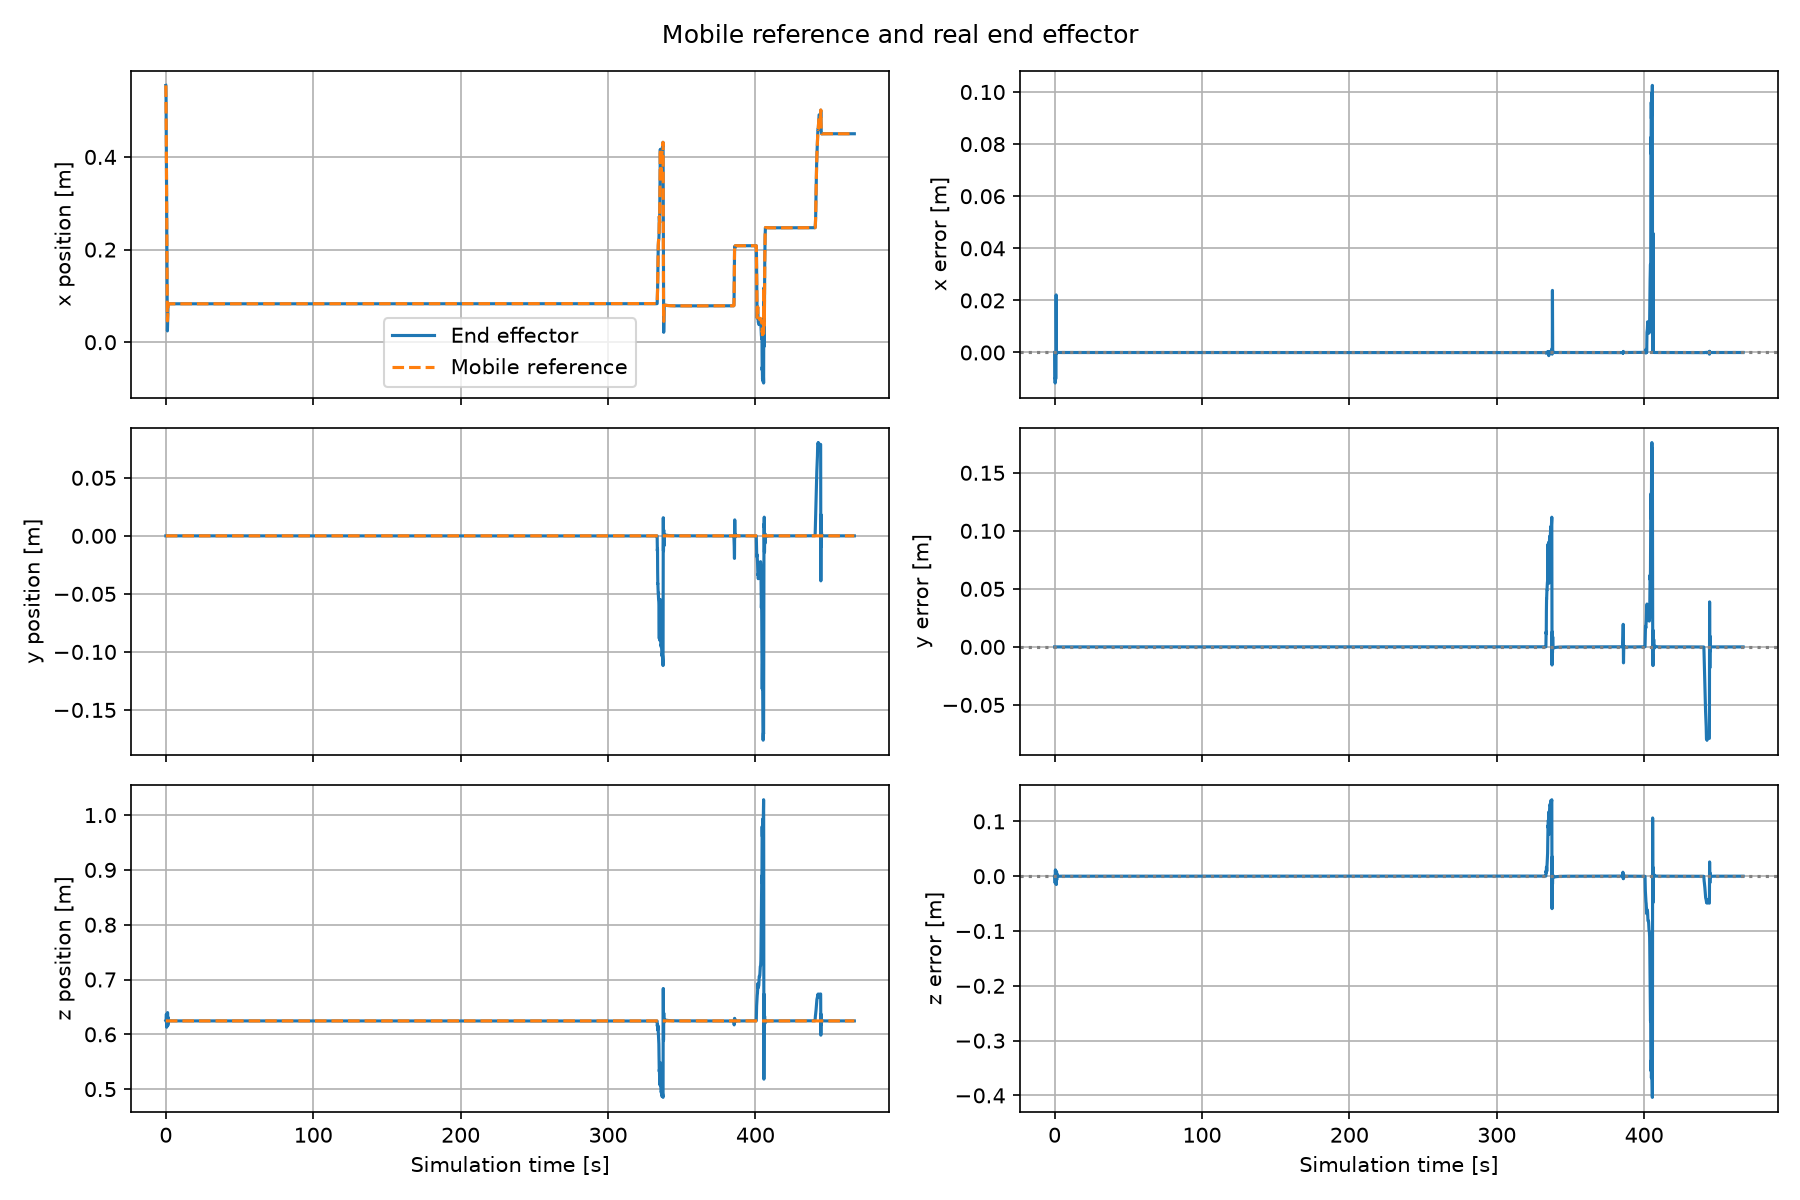
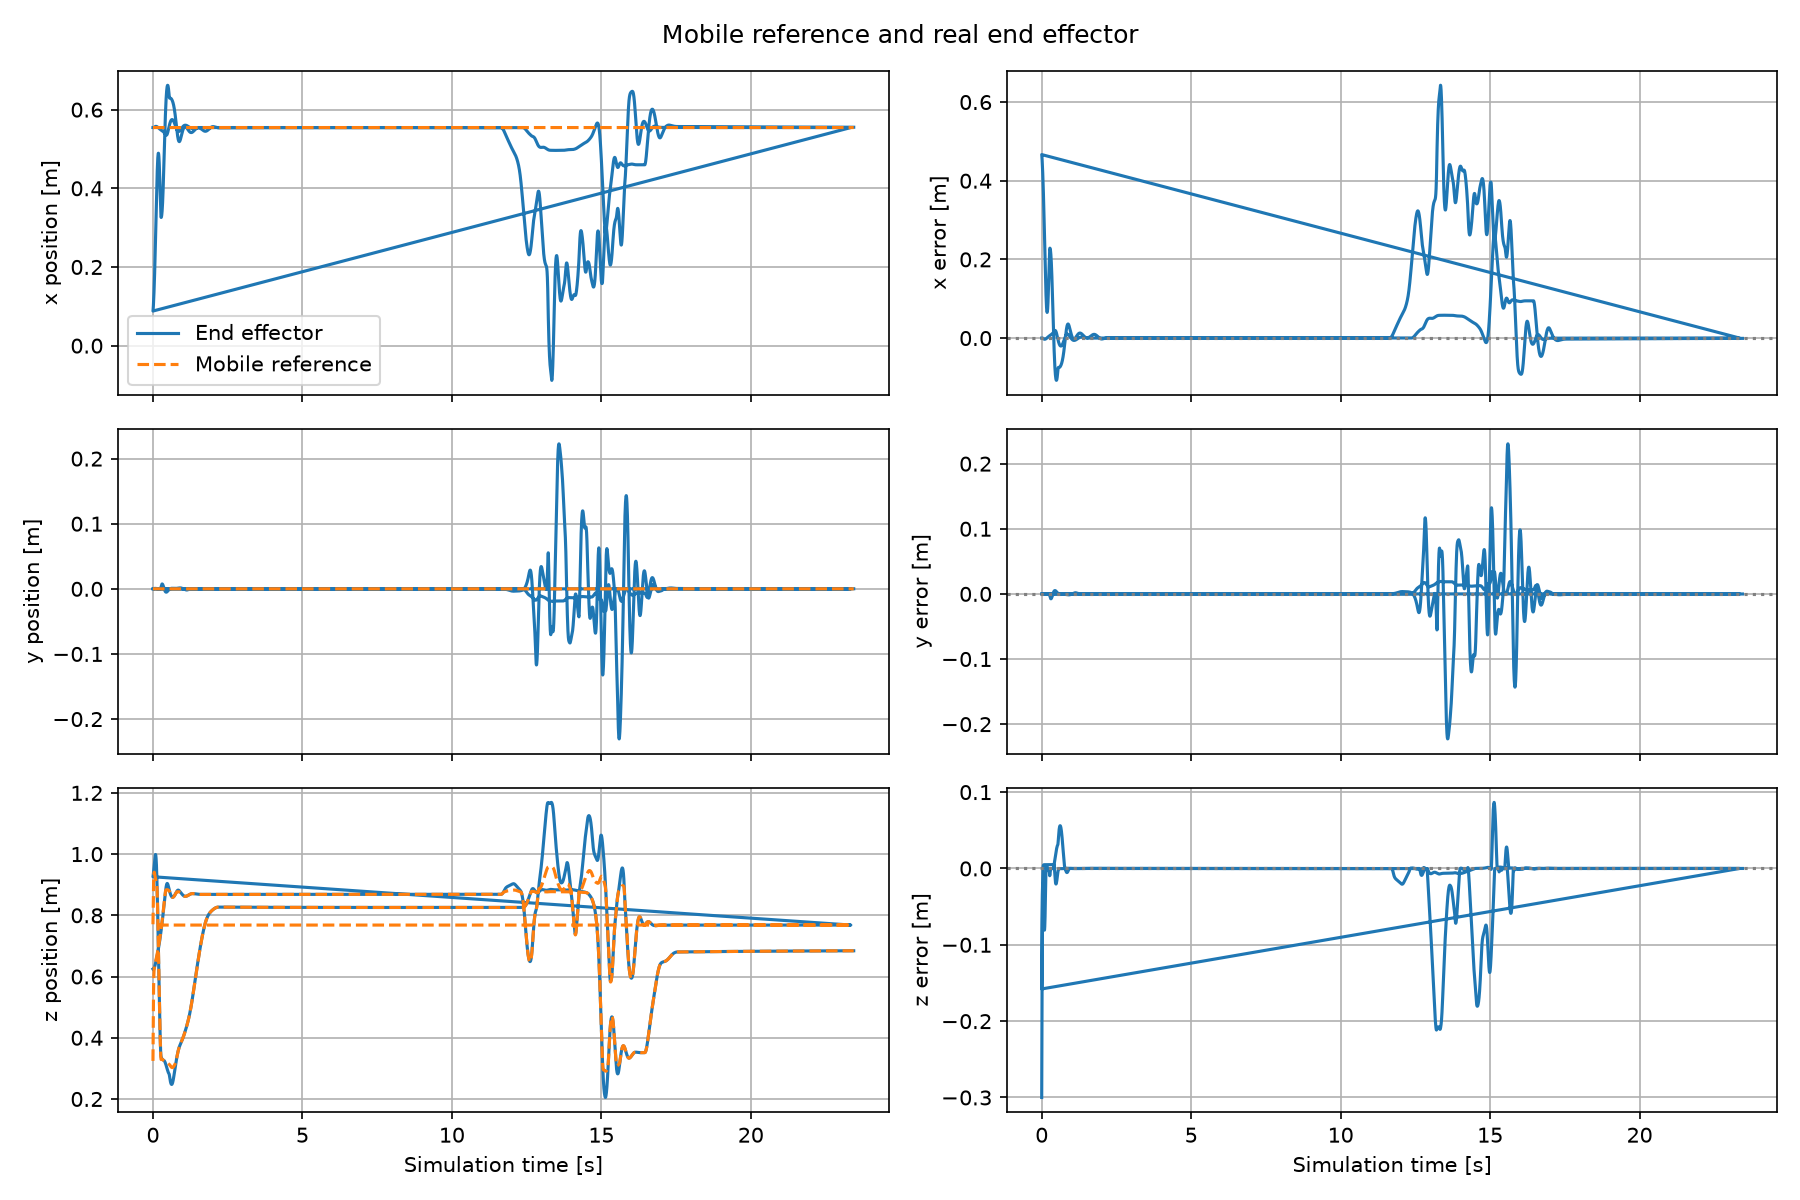
slide joint along z-axis with gravity compensation

Changed region(s): [[0.0, 0.0617, 0.4978, 0.9867], [0.4978, 0.37, 0.9956, 0.9867], [0.4978, 0.0617, 0.9956, 0.3392]]

diff --git a/FR3/homework2_mobz_fr3.py b/FR3/homework2_mobz_fr3.py
@@ -1,0 +1,286 @@
+"""Control a simulated FR3 using forces computed in a second, virtual model.
+
+The real scene is the simulated robot we can see and interact with. The virtual
+scene contains a copy of the FR3 plus a moving reference mass on a rail. Three
+site-based position actuators act like Cartesian springs and dampers between the
+virtual end effector and that reference. At each time step, we copy the real
+joint state into the virtual robot, read the resulting virtual joint torques,
+and command those torques to the real robot. Only the virtual rail state is
+carried from one time step to the next without being overwritten.
+"""
+
+from pathlib import Path
+import time
+
+import matplotlib
+matplotlib.use("Agg")  # Render PNGs without opening a second GUI window.
+import matplotlib.pyplot as plt
+import mujoco
+import mujoco.viewer
+import numpy as np
+
+# -----------------------------------------------------------------------------
+# 1. Load the two MuJoCo scenes
+# -----------------------------------------------------------------------------
+# Resolve paths relative to this file, so launching from another terminal
+# directory does not change which XML files are loaded.
+project_root = Path(__file__).resolve().parents[2]
+
+scene_path_real = (
+    project_root
+    / "MuJoCo Projects"
+    / "FR3"
+    / "torque_control"
+    / "model"
+    / "scene.xml"
+)
+scene_path_virt = (
+    project_root
+    / "MuJoCo Projects"
+    / "FR3"
+    / "torque_control"
+    / "model"
+    / "scene_virtual.xml"
+)
+
+# MjModel is the compiled, mostly fixed description of a scene. Each MjData is
+# its mutable state: qpos, qvel, ctrl, time, site positions, forces, and more.
+# "real" here means the simulated plant, not a physical FR3 connected via ROS.
+model_real = mujoco.MjModel.from_xml_path(str(scene_path_real))
+model_virt = mujoco.MjModel.from_xml_path(str(scene_path_virt))
+data_real = mujoco.MjData(model_real)
+data_virt = mujoco.MjData(model_virt)
+
+# -----------------------------------------------------------------------------
+# 2. Look up the model elements used by the controller
+# -----------------------------------------------------------------------------
+# Names make XML readable, while arrays such as site_xpos and jnt_range are
+# indexed by integer IDs. A name must be looked up in its own model: the same
+# element may have a different ID in the real and virtual scenes.
+home_id = mujoco.mj_name2id(
+    model_real,
+    mujoco.mjtObj.mjOBJ_KEY,
+    "home"
+)
+
+attachment_site_id = mujoco.mj_name2id(
+    model_real,
+    mujoco.mjtObj.mjOBJ_SITE,
+    "attachment_site"
+)
+
+reference_site_mobile_z_id = mujoco.mj_name2id(
+    model_virt,
+    mujoco.mjtObj.mjOBJ_SITE,
+    "reference_site_mobile_z"
+)
+
+rail_joint_z_id_virt = mujoco.mj_name2id(
+    model_virt,
+    mujoco.mjtObj.mjOBJ_JOINT,
+    "rail_joint_z"
+)
+
+rail_joint_z_id_real = mujoco.mj_name2id(
+    model_real,
+    mujoco.mjtObj.mjOBJ_JOINT,
+    "rail_joint_z"
+)
+
+# A joint ID identifies the joint in MjModel. jnt_qposadr and jnt_dofadr then
+# locate that joint's entries in qpos and qvel/qfrc_applied, respectively.
+# The rail is a slide joint, so it occupies one scalar in each of these arrays.
+# Its qpos is displacement along the rail, not the site's 3D world position.
+rail_dof_id_virt = model_virt.jnt_dofadr[rail_joint_z_id_virt]
+rail_qpos_id_virt = model_virt.jnt_qposadr[rail_joint_z_id_virt]
+
+rail_dof_id_real = model_real.jnt_dofadr[rail_joint_z_id_real]
+rail_qpos_id_real = model_real.jnt_qposadr[rail_joint_z_id_real]
+
+
+# -----------------------------------------------------------------------------
+# 3. Initialize the simulated robot
+# -----------------------------------------------------------------------------
+# The keyframe supplies the initial joint state of the real FR3. mj_forward
+# computes quantities derived from that state, including site_xpos and bias
+# forces, without integrating the simulation or advancing its clock. The
+# virtual FR3 will receive this joint state at the start of the first loop.
+mujoco.mj_resetDataKeyframe(model_real, data_real, home_id)
+mujoco.mj_forward(model_real, data_real)
+
+
+# -----------------------------------------------------------------------------
+# 4. Prepare position-error recording
+# -----------------------------------------------------------------------------
+# Keep samples in memory for the plot and save only the resulting PNG.
+# All positions are in the world frame and all errors use
+#     error = mobile_reference_position - real_end_effector_position.
+# A negative x error therefore means the reference is farther toward -x.
+plot_path = Path(__file__).resolve().parent / "Plots" / "error_rail.png"
+error_times = []
+error_vectors = []
+attachment_positions = []
+reference_positions = []
+# Write an intermediate result at 20 simulated seconds. The viewer can remain
+# open afterward; closing it writes the complete run to the same files.
+plot_saved_at_20s = False
+
+
+def save_error_plot():
+    """Plot world-frame positions (left) and signed axis errors (right).
+
+    The dashed curve is the moving reference, not the end of the rail. The
+    dotted horizontal line in each error panel marks perfect position match.
+    """
+    # Lists become arrays of shape (number_of_samples, 3), where columns are
+    # x, y, and z. The time array has one entry per position/error sample.
+    times = np.asarray(error_times)
+    errors = np.asarray(error_vectors)
+    attachments = np.asarray(attachment_positions)
+    references = np.asarray(reference_positions)
+    # Rows correspond to x/y/z. The left column compares the two positions;
+    # the right column shows their difference with its sign preserved.
+    figure, axes = plt.subplots(3, 2, sharex="col", figsize=(12, 8))
+
+    for axis, label in enumerate(("x", "y", "z")):
+        axes[axis, 0].plot(times, attachments[:, axis], label="End effector")
+        axes[axis, 0].plot(times, references[:, axis], "--", label="Mobile reference")
+        axes[axis, 0].set_ylabel(f"{label} position [m]")
+        axes[axis, 0].grid(True)
+
+        axes[axis, 1].plot(times, errors[:, axis])
+        axes[axis, 1].axhline(0.0, color="0.5", linestyle=":")
+        axes[axis, 1].set_ylabel(f"{label} error [m]")
+        axes[axis, 1].grid(True)
+
+    axes[0, 0].legend()
+    axes[-1, 0].set_xlabel("Simulation time [s]")
+    axes[-1, 1].set_xlabel("Simulation time [s]")
+    figure.suptitle("Mobile reference and real end effector")
+    figure.tight_layout()
+    # Create Plots on the first save if it does not exist yet.
+    plot_path.parent.mkdir(parents=True, exist_ok=True)
+    figure.savefig(plot_path, dpi=150)
+    plt.close(figure)
+    print(f"Error plot saved to: {plot_path}")
+
+
+# -----------------------------------------------------------------------------
+# 5. Configure the external push along the virtual rail
+# -----------------------------------------------------------------------------
+# jnt_range gives limits in the slide joint's coordinate s. In the current
+# XML, s ranges from 0 to 0.5 m and the joint axis is world -x. The Boolean
+# remembers when the push has been turned off, so it cannot reactivate if the
+# spring later pulls the carriage back from the end of the rail.
+rail_upper_limit = model_virt.jnt_range[rail_joint_z_id_virt, 1]
+rail_force_active = True
+
+
+# -----------------------------------------------------------------------------
+# 6. Control and advance both simulations
+# -----------------------------------------------------------------------------
+# The viewer displays only the real scene. Its rail is a visual copy of the
+# virtual rail; the virtual scene still evolves even though it is not shown.
+with mujoco.viewer.launch_passive(model_real, data_real) as viewer:
+    # The viewer has its own thread. Hold its lock while changing camera state,
+    # then synchronize once so the new view appears immediately.
+    with viewer.lock():
+        viewer.cam.lookat[:] = [0.0, 0.0, 0.5]
+        viewer.cam.distance = 3.0
+        viewer.cam.azimuth = 90.0
+        viewer.cam.elevation = -25.0
+
+    viewer.sync()
+
+    while viewer.is_running():
+        # Wall-clock time is used only to pace the display. MuJoCo's simulated
+        # time advances by model.opt.timestep whenever mj_step is called.
+        step_start = time.time()
+
+        # qpos[:7]/qvel[:7] belong to the seven FR3 joints in both models.
+        # The virtual rail is the eighth coordinate and is intentionally not
+        # copied: it keeps the position/velocity produced by previous steps.
+        # Align the clocks before evaluating forces at the current real state.
+        data_virt.qpos[:7] = data_real.qpos[:7]
+        data_virt.qvel[:7] = data_real.qvel[:7]
+        data_virt.time = data_real.time
+        # Recompute kinematics, actuator forces, and bias forces without moving
+        # anything. In particular, qfrc_actuator now reflects the three
+        # virtual Cartesian spring-damper actuators at the measured FR3 pose.
+        mujoco.mj_forward(model_virt, data_virt)
+
+        # Both site positions now refer to the same simulation time. site_xpos
+        # contains world-frame XYZ coordinates, unlike the rail's scalar qpos.
+        # Copy the coordinates because MjData's arrays change at later steps.
+        reference = data_virt.site_xpos[reference_site_mobile_z_id].copy()
+        attachment = data_real.site_xpos[attachment_site_id].copy()
+        error_times.append(data_real.time)
+        error_vectors.append(reference - attachment)
+        attachment_positions.append(attachment)
+        reference_positions.append(reference)
+
+        # Save and print once after 20 seconds of simulated (not wall) time.
+        if not plot_saved_at_20s and data_real.time >= 20.0:
+            save_error_plot()
+            # At a 2 ms step, the in-memory array has about 10,000 rows.
+            # Print one row per second and the latest 3-component error vector.
+            sample_stride = max(1, round(1.0 / model_real.opt.timestep))
+            sampled_errors = np.column_stack(
+                (np.asarray(error_times)[::sample_stride], np.asarray(error_vectors)[::sample_stride])
+            )
+            with np.printoptions(precision=6, suppress=True):
+                print(f"Error at t={data_real.time:.2f} s [ex, ey, ez] m: {error_vectors[-1]}")
+                print("Error samples [time_s, ex_m, ey_m, ez_m]:")
+                print(sampled_errors)
+            plot_saved_at_20s = True
+
+        # Stop applying the external push within 1 mm of the upper joint
+        # limit. Setting the push to zero does not lock the carriage: its
+        # inertia and the virtual springs may still move it afterward.
+        if rail_force_active and data_virt.qpos[rail_qpos_id_virt] >= rail_upper_limit - 1e-3:
+            rail_force_active = False
+            print(f"Rail reached its upper limit at t={data_real.time:.2f} s; push turned off.")
+
+        # qfrc_applied is indexed by DoF. Because this slide's axis is -x,
+        # +20 N in its generalized coordinate pushes the carriage toward -x.
+        # Set it every cycle so the post-limit value remains explicitly zero.
+        data_virt.qfrc_applied[rail_dof_id_virt] = 10.0 if rail_force_active else 0.0
+
+        # qfrc_actuator is a vector of generalized forces for all eight virtual
+        # DoFs. Its first seven entries are the spring-generated joint torques;
+        # the eighth belongs to the rail and is not sent to the real motors.
+        # qfrc_bias supplies gravity and velocity-dependent inertial terms.
+        # The seven real motor actuators have gear=1, so ctrl contains torques.
+        bias_compensation = data_virt.qfrc_bias
+        tau_virtual = data_virt.qfrc_actuator.copy()
+        data_real.ctrl[:] = tau_virtual[:7] + bias_compensation[:7]
+
+        # mj_step integrates ALL DoFs in each model. The virtual FR3 joints can
+        # therefore drift during this step, but their predicted state is
+        # discarded when we overwrite qpos[:7]/qvel[:7] next iteration. The
+        # virtual rail is not overwritten and remains dynamically evolving.
+        mujoco.mj_step(model_virt, data_virt)
+        mujoco.mj_step(model_real, data_real)
+
+        # The viewer shows the real scene only. Mirror the virtual rail's
+        # scalar displacement and speed into its visible counterpart there.
+        # Recompute real-scene site positions after this manual state change,
+        # then send the updated scene and mouse interaction to the viewer.
+        data_real.qpos[rail_qpos_id_real] = data_virt.qpos[rail_qpos_id_virt]
+        data_real.qvel[rail_dof_id_real] = data_virt.qvel[rail_dof_id_virt]
+
+        mujoco.mj_forward(model_real, data_real)
+        viewer.sync()
+
+        # Sleep for the unused part of the timestep so that, when computation
+        # is fast enough, one simulated second takes about one wall second.
+        computation_time = time.time() - step_start
+        remaining_time = model_real.opt.timestep - computation_time
+
+        if remaining_time > 0:
+            time.sleep(remaining_time)
+
+# On a normal viewer close, replace the 20-second snapshot with the full run.
+# This also saves short experiments that ended before 20 simulated seconds.
+if error_times:
+    save_error_plot()
